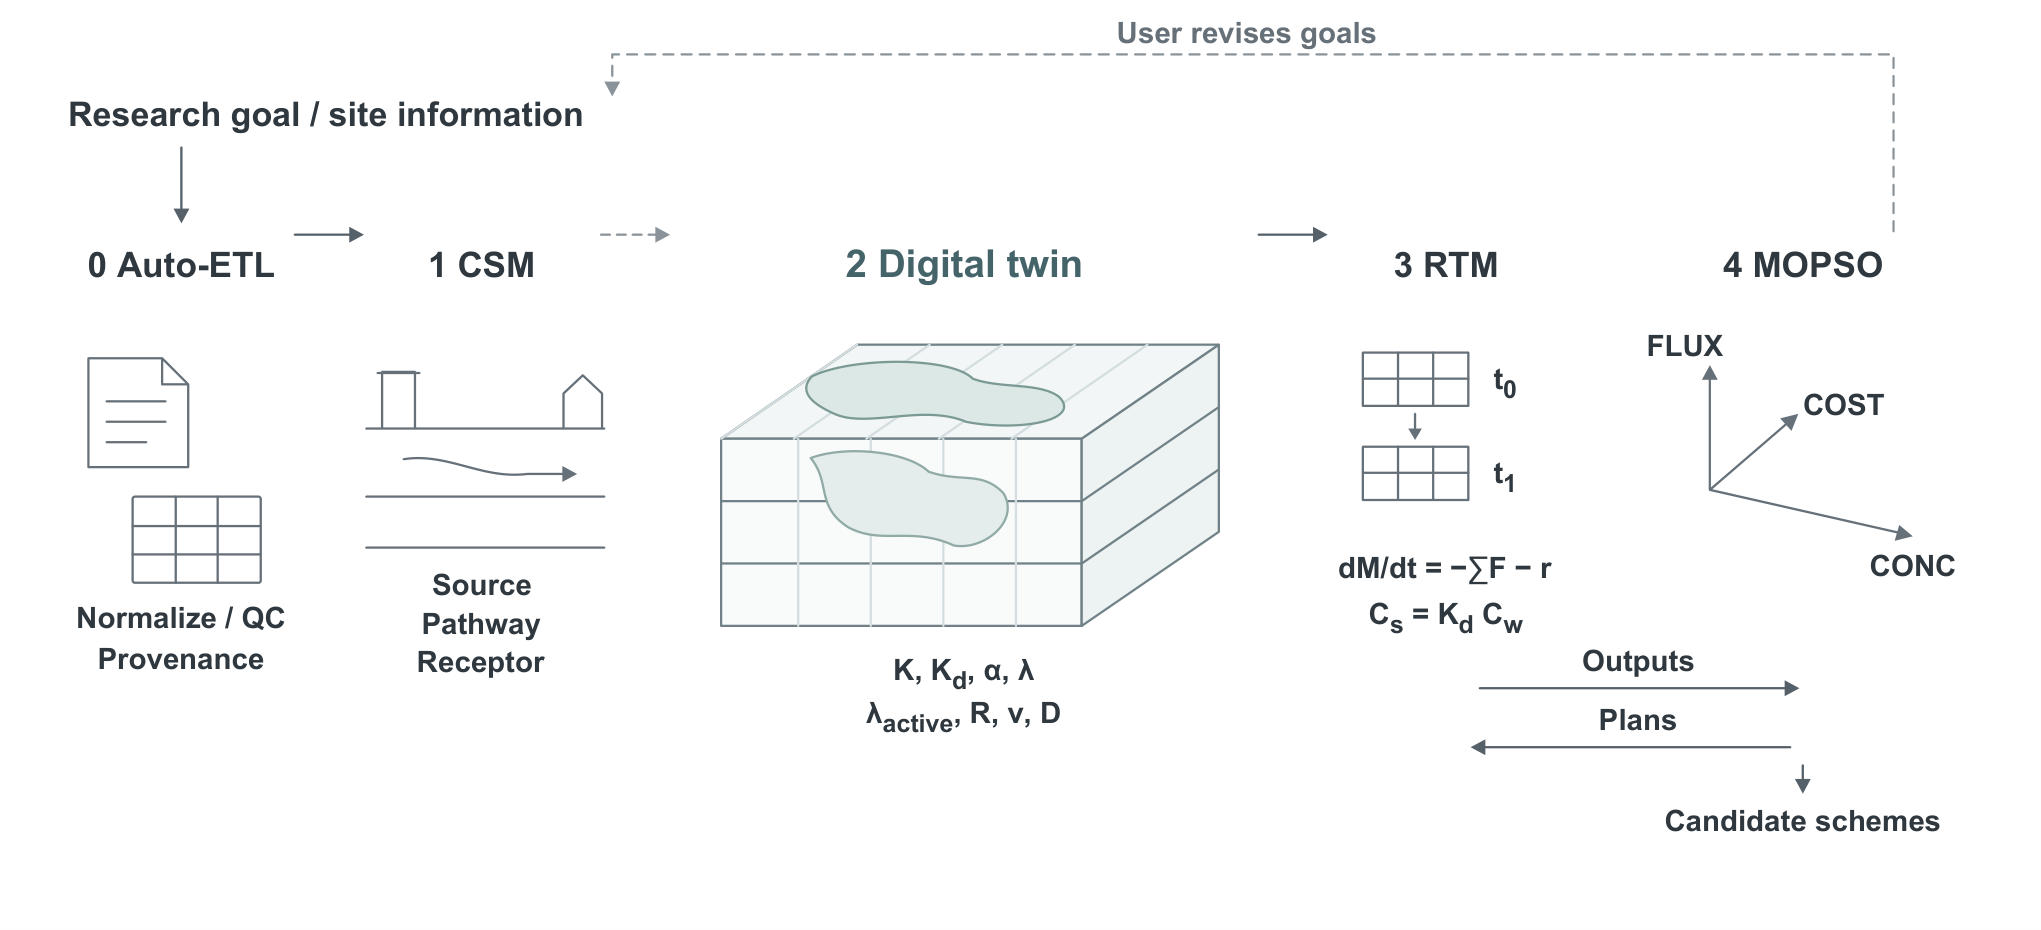
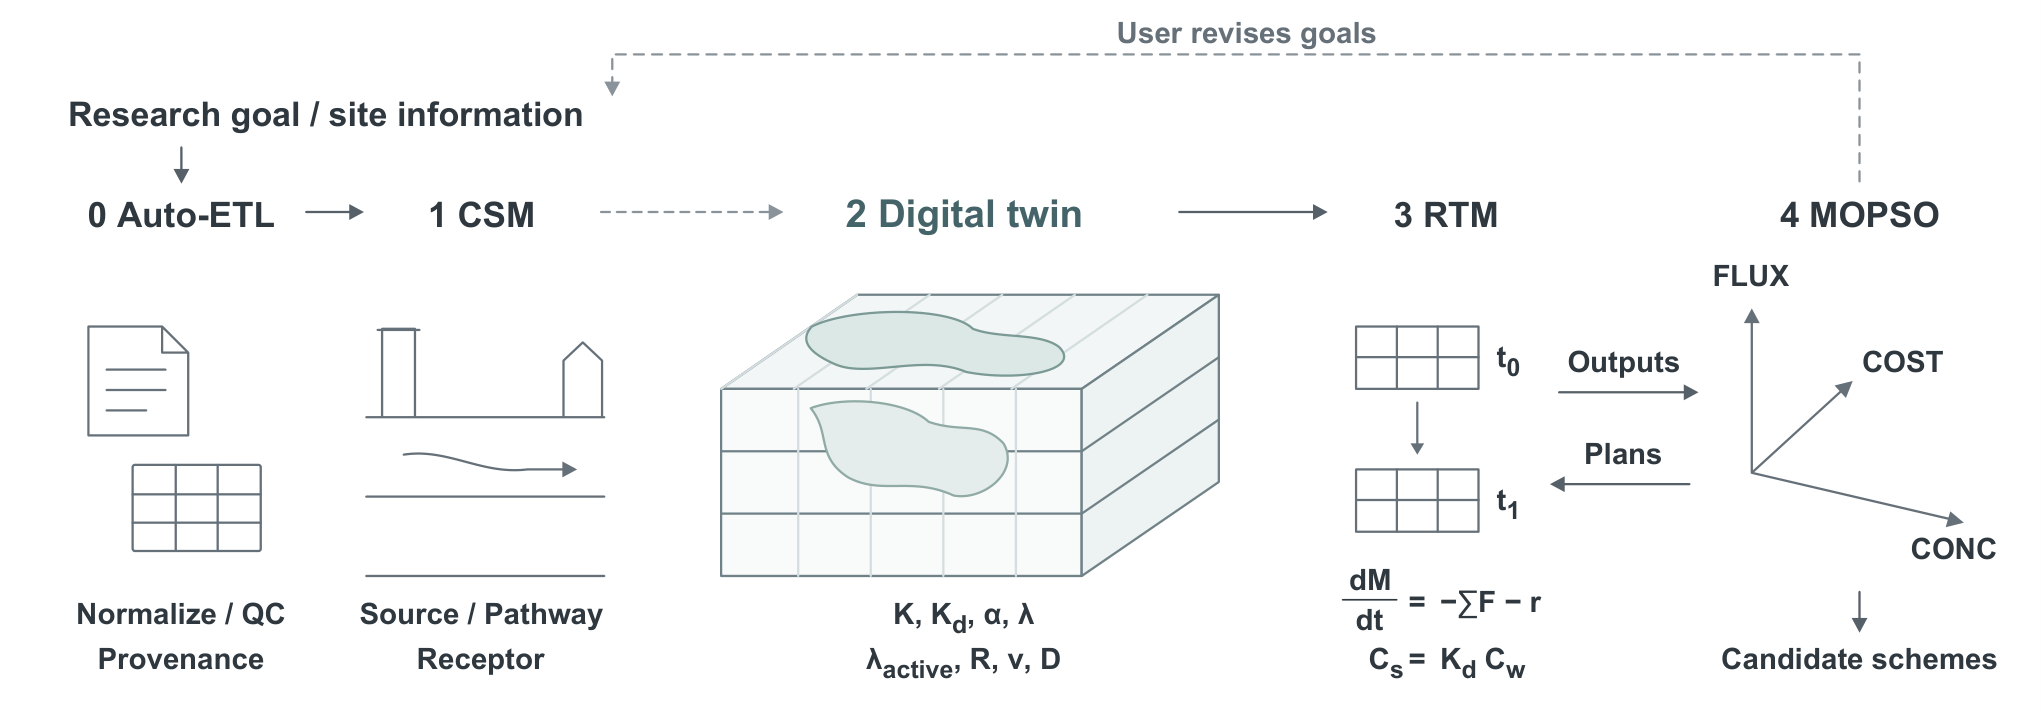
style(figure1): 收紧留白并统一版式与RTM公式对齐

diff --git a/output/脚本/20261009-16-SoilAgent-R-Figure1/20261009-16-导出与QA.py b/output/脚本/20261009-16-SoilAgent-R-Figure1/20261009-16-导出与QA.py
@@ -56,7 +56,9 @@ def export(repo: Path) -> dict:
     assert len(ids) == len(set(ids)), "SVG ID 重复"
     forbidden = {"image", "script", "foreignObject", "filter", "linearGradient", "radialGradient"}
     assert not any(n.tag.removeprefix(NS) in forbidden for n in root.iter()), "SVG含禁用元素"
-    assert root.get("width") == "180mm" and root.get("height") == "82mm"
+    assert root.get("width") == "180mm" and root.get("height") == "63mm"
+    _, _, view_width, view_height = map(float, root.get("viewBox").split())
+    nodes = {node.get("id"): node for node in root.iter() if node.get("id")}
     typography = check_arial(root)
 
     # CairoSVG保留字体和虚线；PyMuPDF的SVG转换会丢失dash，不能用作本图导出器。
@@ -87,8 +89,12 @@ def export(repo: Path) -> dict:
             for second in right_labels[index + 1:]:
                 if any((a & b).get_area() > 0.5 for a in right_rects[first] for b in right_rects[second]):
                     collisions.append([first, second])
-        # 仅在标题带查找，避免将资源条中的RTM/MOPSO当成重复标题。
-        header_clip = pymupdf.Rect(0, rect.height * 200 / 820, rect.width, rect.height * 295 / 820)
+        def svg_band(left, top, right, bottom):
+            return pymupdf.Rect(rect.width * left / view_width, rect.height * top / view_height,
+                                rect.width * right / view_width, rect.height * bottom / view_height)
+
+        # 仅在共同标题带查找；画幅高度不参与字体或坐标的缩放。
+        header_clip = svg_band(0, 160, view_width, 225)
         header_labels = ["0 Auto-ETL", "1 CSM", "2 Digital twin", "3 RTM", "4 MOPSO"]
         header_rects = {label: page.search_for(label, clip=header_clip) for label in header_labels}
         header_unique = all(len(boxes) == 1 for boxes in header_rects.values())
@@ -100,10 +106,10 @@ def export(repo: Path) -> dict:
         visible_text = " ".join(s["text"] for s in spans)
         removed_labels = ["Conceptualization", "Site reconstruction", "Reaction prediction", "Plan optimization", "Color: CONC", "STRUCTURE DRAFT", "Dashed:", "Conceptual illustration / not to scale", "Geometry / initial fields / support", "Time evolution", "Mass checks"]
         allowed_subscripts = sorted(n.text.strip() for n in root.iter(NS + "tspan") if n.get("dy") == "8")
-        formula_bands = {"balance": (480, 529), "partition": (530, 580)}
+        formula_bands = {"balance": (490, 565), "partition": (565, 615)}
         formula_rects = {}
         for name, (top, bottom) in formula_bands.items():
-            band = pymupdf.Rect(rect.width * 1100 / 1800, rect.height * top / 820, rect.width * 1450 / 1800, rect.height * bottom / 820)
+            band = svg_band(1175, top, 1365, bottom)
             members = [s for s in spans if band.contains(pymupdf.Rect(s["bbox"]))]
             if members:
                 box = pymupdf.Rect(members[0]["bbox"])
@@ -111,6 +117,12 @@ def export(repo: Path) -> dict:
                     box |= pymupdf.Rect(member["bbox"])
                 formula_rects[name] = box
         formula_collisions = [[name, label] for name, box in formula_rects.items() for label, boxes in right_rects.items() if any((box & other).get_area() > 0.5 for other in boxes)]
+        equals_rects = page.search_for("=", clip=svg_band(1238, 505, 1265, 615))
+        equals_aligned = len(equals_rects) == 2 and abs(equals_rects[0].x0 - equals_rects[1].x0) < 0.1
+        formula_rows_overlap = len(formula_rects) == 2 and (formula_rects["balance"] & formula_rects["partition"]).get_area() > 0.5
+        annotation_groups = [nodes[name] for name in ["etl-annotations", "csm-annotations", "twin-parameter-fields", "rtm-equations", "decision-output"]]
+        final_baselines = [group.get("data-final-baseline") for group in annotation_groups]
+        header_baselines = [node.get("y") for node in root.iter() if node.get("data-role") == "module-title"]
         checks = {
             "svg_unique_ids": True,
             "svg_no_raster_or_filter": True,
@@ -129,14 +141,19 @@ def export(repo: Path) -> dict:
             "pdf_removed_process_and_figure_notes_absent": all(label not in visible_text for label in removed_labels),
             "svg_shared_footer_and_divider_absent": "shared-resources" not in ids and not any(n.get("d") == "M60 755 L1740 755" for n in root.iter(NS + "path")),
             "pdf_shared_footer_absent": "Shared data / tools" not in visible_text,
-            "pdf_rtm_formulas_present": set(formula_rects) == set(formula_bands) and bool(page.search_for("dM/dt")) and bool(page.search_for("∑F")),
+            "pdf_rtm_formulas_present": set(formula_rects) == set(formula_bands) and bool(page.search_for("dM")) and bool(page.search_for("dt")) and bool(page.search_for("∑F")),
             "pdf_rtm_formulas_no_label_collision": not formula_collisions,
+            "pdf_rtm_equal_signs_aligned": equals_aligned,
+            "pdf_rtm_formula_rows_nonoverlapping": not formula_rows_overlap,
+            "svg_five_title_baselines_aligned": len(header_baselines) == 5 and set(header_baselines) == {"200"},
+            "svg_five_annotation_final_baselines_aligned": final_baselines == ["590"] * 5,
+            "svg_compact_bottom_margin": view_height - float(final_baselines[0]) == 40,
             "pdf_conc_axis_replaces_time": len(right_rects["CONC"]) == 1 and "TIME" not in visible_text,
             "pdf_width_180mm": abs(rect.width * 25.4 / 72 - 180) < 0.01,
-            "pdf_height_82mm": abs(rect.height * 25.4 / 72 - 82) < 0.01,
+            "pdf_height_63mm": abs(rect.height * 25.4 / 72 - 63) < 0.01,
         }
         receipt = {
-            "stage": "structure_draft_eight_fields_and_rtm_equations",
+            "stage": "structure_draft_compact_aligned_layout",
             "source": source.relative_to(repo).as_posix(),
             "source_sha256": hashlib.sha256(source.read_bytes()).hexdigest(),
             "backend": f"CairoSVG {cairosvg.__version__}; PyMuPDF {pymupdf.VersionBind} for PDF QA/render",
@@ -158,6 +175,10 @@ def export(repo: Path) -> dict:
             "model_header_collisions": header_collisions,
             "formula_boxes_pt": {name: list(box) for name, box in formula_rects.items()},
             "formula_label_collisions": formula_collisions,
+            "rtm_equal_sign_boxes_pt": [list(box) for box in equals_rects],
+            "formula_rows_overlap": formula_rows_overlap,
+            "module_title_baselines_svg": header_baselines,
+            "module_annotation_final_baselines_svg": final_baselines,
             "png_size_pixels": [pixmap.width, pixmap.height],
             "not_checked_by_this_script": ["visual_layout", "scientific_acceptance", "drawio_desktop_export", "journal_specific_submission_rules"],
         }

diff --git a/tests/test_soilagent_figure1_wireframe.py b/tests/test_soilagent_figure1_wireframe.py
@@ -25,12 +25,12 @@ class WireframeTests(unittest.TestCase):
             self.assertEqual(self.text.count(label), 1)
 
     def test_model_only_titles(self):
-        for module, label in [("csm", "1 CSM"), ("twin", "2 Digital twin"), ("rtm", "3 RTM"), ("decision", "4 MOPSO")]:
+        for module, label in [("etl", "0 Auto-ETL"), ("csm", "1 CSM"), ("twin", "2 Digital twin"), ("rtm", "3 RTM"), ("decision", "4 MOPSO")]:
             title = self.nodes[f"{module}-method-label"]
             self.assertIn(title, list(self.nodes[module]))
             self.assertEqual(title.get("data-role"), "module-title")
             self.assertEqual(title.text, label)
-            self.assertEqual(title.get("y"), "244")
+            self.assertEqual(title.get("y"), "200")
         self.assertFalse(any(n.get("data-role") in {"process-title", "method-label"} for n in self.root.iter()))
         for old_title in ["Conceptualization", "Site reconstruction", "Reaction prediction", "Plan optimization"]:
             self.assertNotIn(old_title, self.text)
@@ -62,7 +62,7 @@ class WireframeTests(unittest.TestCase):
             self.assertIn(word, axis_text)
         self.assertNotIn("TIME", axis_text)
         conc = self.nodes["decision-axis-conc"]
-        self.assertEqual((conc.get("x"), conc.get("y")), ("1649", "508"))
+        self.assertEqual((conc.get("x"), conc.get("y")), ("1685", "493"))
         self.assertIn("TIME remains a fourth optimization objective", self.root.find(NS + "desc").text)
 
     def test_clean_figure_notes_in_metadata(self):
@@ -117,11 +117,11 @@ class WireframeTests(unittest.TestCase):
         output = self.nodes["model-response-label"]
         request = self.nodes["candidate-request-label"]
         scheme = self.nodes["candidate-schemes-label"]
-        self.assertEqual(balance.get("x"), partition.get("data-center-x"))
-        self.assertLess(float(balance.get("y")), float(partition.get("y")))
-        self.assertLess(float(partition.get("y")), float(output.get("y")))
+        self.assertEqual(balance.get("data-equals-x"), partition.get("data-equals-x"))
+        self.assertLess(float(balance.get("data-baseline")), float(partition.get("data-baseline")))
         self.assertLess(float(output.get("y")), float(request.get("y")))
         self.assertLess(float(request.get("y")), float(scheme.get("y")))
+        self.assertLess(float(request.get("y")), float(balance.get("data-baseline")))
         self.assertEqual(self.nodes["decision-method-label"].get("x"), scheme.get("x"))
         self.assertEqual(output.text, "Outputs")
         self.assertEqual(request.text, "Plans")
@@ -130,10 +130,29 @@ class WireframeTests(unittest.TestCase):
         fields = self.nodes["twin-parameter-fields"].get("data-fields").split(",")
         self.assertEqual(fields, ["K", "Kd", "alpha", "lambda", "lambda_active", "R", "v", "D"])
         self.assertEqual(len(set(fields)), 8)
-        self.assertEqual(self.nodes["rtm-balance-equation"].text, "dM/dt = −∑F − r")
-        self.assertEqual("".join(self.nodes["rtm-partition-equation"].itertext()), "Cs = Kd Cw")
+        self.assertEqual(self.nodes["rtm-balance-equation"].get("data-equation"), "dM/dt = −∑F − r")
+        self.assertEqual(self.nodes["rtm-partition-equation"].get("data-equation"), "Cs = Kd Cw")
+        self.assertEqual(["".join(n.itertext()) for n in self.nodes["rtm-partition-equation"].iter(NS + "text")], ["Cs", "=", "Kd Cw"])
         for removed in ["Geometry / initial fields / support", "Time evolution", "Mass checks"]:
             self.assertNotIn(removed, self.text)
+
+    def test_compact_aligned_annotation_rows(self):
+        self.assertEqual(self.root.get("viewBox"), "0 0 1800 630")
+        self.assertEqual(self.root.get("height"), "63mm")
+        for ident in ["etl-annotations", "csm-annotations", "twin-parameter-fields", "rtm-equations", "decision-output"]:
+            group = self.nodes[ident]
+            self.assertEqual(group.get("data-final-baseline"), "590")
+            self.assertEqual(list(group.iter(NS + "text"))[-1].get("y"), "590")
+        for ident in ["etl-annotations", "csm-annotations", "twin-parameter-fields"]:
+            self.assertEqual([n.get("y") for n in self.nodes[ident].iter(NS + "text")], ["550", "590"])
+
+    def test_rtm_native_fraction_and_aligned_equals(self):
+        self.assertEqual(self.nodes["rtm-balance-numerator"].text, "dM")
+        self.assertEqual(self.nodes["rtm-balance-denominator"].text, "dt")
+        self.assertEqual(self.nodes["rtm-balance-numerator"].get("x"), self.nodes["rtm-balance-denominator"].get("x"))
+        self.assertEqual(self.nodes["rtm-fraction-rule"].tag, NS + "path")
+        self.assertEqual(self.nodes["rtm-balance-equals"].get("x"), self.nodes["rtm-partition-equals"].get("x"))
+        self.assertEqual(self.nodes["rtm-balance-rhs"].get("x"), self.nodes["rtm-partition-rhs"].get("x"))
 
     def test_no_external_refs(self):
         for node in self.root.iter():

diff --git a/output/报告/20261009-16-SoilAgent-R-Figure1/README.md b/output/报告/20261009-16-SoilAgent-R-Figure1/README.md
@@ -1,6 +1,6 @@
 # SoilAgent-R Figure 1：第一阶段结构审阅
 
-任务：[Issue #2](https://github.com/b619-y/drawing-studio-agent/issues/2)。2026-10-09用户认可总体结构，并要求改为yyc字体、安装真正Arial及精简文字。当前按最新要求删除底部资源条，将Twin下方改为8个参数场符号、RTM下方改为守恒与相平衡公式；沿用模型标题与CONC轴。仍为待审结构草图，不是正式投稿图，也不关闭Issue。本轮不自动展开真实数据制图。
+任务：[Issue #2](https://github.com/b619-y/drawing-studio-agent/issues/2)。2026-10-09用户认可总体结构，并要求改为yyc字体、安装真正Arial及精简文字。Twin下方已改为8个参数场符号、RTM下方已改为守恒与相平衡公式；沿用模型标题与CONC轴。最新修订按用户反馈收紧左下留白、统一标题及说明基线，将RTM公式按等号对齐。仍为待审结构草图，不是正式投稿图，也不关闭Issue。本轮不自动展开真实数据制图。
 
 ## 本轮设计
 
@@ -8,7 +8,7 @@
 
 Twin没有真实尺度、井位或浓度色标，概念/非等比例说明移至caption和SVG描述。Decision保留CONC、COST、FLUX空三维坐标，不画随机点、伪造前沿或最优标记；TIME仍是第四优化目标，但不在这份空坐标示意中显示，不新增颜色映射。顶部虚线只表示用户重新设目标；底部资源条及分隔横线按最新用户要求删除，数据底座的实际职责不变。第5层不在图中。删除画面提示不意味着科学状态升级。
 
-草图默认180 mm整宽、82 mm高，主标签至少7 pt；通用两栏整宽草图，不宣称符合某个期刊最新投稿规范。
+草图当前180 mm整宽、63 mm高，主标签至少7 pt；通用两栏整宽草图，不宣称符合某个期刊最新投稿规范。
 
 ## yyc字体修订
 
@@ -23,10 +23,10 @@ Twin没有真实尺度、井位或浓度色标，概念/非等比例说明移至
 
 ## 3、4部分文字整理
 
-按`scansci-svg`局部编辑规范，保护0/1/2、Arial Bold、配色、模型符号和三轴几何，仅调整右侧说明与交互线的布局：
+前轮按`scansci-svg`局部编辑规范整理右侧；最新一轮统一全图版式，仍保留Arial Bold、配色、模型符号、空坐标语义及箭头方向：
 
 - RTM的原`Time evolution`、`Mass checks`按最新要求替换为守恒和相平衡公式；Decision保留空坐标，`Color: CONC`已删除。
-- 两条交互箭头集中在独立下方带：`Outputs`表示RTM模型响应，`Plans`表示MOPSO候选请求，方向不变。
+- 两条交互箭头由下方带移到RTM与MOPSO的栏间空隙：`Outputs`表示RTM模型响应，`Plans`表示MOPSO候选请求，方向不变。
 - `Candidate schemes`归入Decision下方；门控状态说明放在caption/依据表，不挤在图面。
 - 空坐标状态未改变，无候选点声明保留于SVG描述、caption及文档；没有因删减画面文字而增加虚构数据。
 - 最终PDF六个右侧独立标签（含三轴标签）各出现一次；两行公式另作包围盒检查，与标签无碰撞。仍需目视判断箭头、轴及图形间的整体关系。
@@ -39,7 +39,7 @@ Twin没有真实尺度、井位或浓度色标，概念/非等比例说明移至
 
 删除画面上的`STRUCTURE DRAFT`、虚线解释及`Conceptual illustration / not to scale`。概念、非等比例、非实测、无真实候选点、待审状态及虚线含义留在caption/README/SVG描述中；关系XML仍仅记录实施模块关系，不作为新版排版复刻。
 
-随后按用户截图，仅删除`shared-resources`整组（底部`Shared data / tools`文字与分隔横线），其余SVG节点及画幅不变；不删除实际共用数据/工具，也不重算科学结果。
+此前按用户截图删除`shared-resources`整组（底部`Shared data / tools`文字与分隔横线）；最新一轮进一步收紧画幅，不删除实际共用数据/工具，也不重算科学结果。
 
 ## 八参数与RTM公式（本轮）
 
@@ -55,6 +55,14 @@ RTM下方用当前direct RTM的局部守恒与线性相平衡关系：
 
 公式保留原生可编辑文字，参数与相平衡下标采用`tspan`；按真正Arial Bold字宽确定起点，不对每个下标片段单独居中。无科学代码或数据改写。
 
+## 留白、对齐与公式排版（最新修订）
+
+按`scansci-svg`重排同一SVG：画幅由180×82 mm收紧为180×63 mm，字体物理尺寸不缩小。五个模块标题共用`y=200`基线；ETL、CSM与Twin下方说明统一为`y=550/590`两行，RTM第二式及候选输出也共用`y=590`末行基线。CSM仅将Source与Pathway合到一行，三个概念均保留。
+
+RTM导数改为原生文字和分数横线，不栅格化或描成字形轮廓；两式等号统一在`x=1242`，右端统一在`x=1270`。最终PDF检查两行完整文字包围盒不重叠，等号位置一致。Outputs/Plans移至栏间，Candidate schemes直接归在MOPSO下方，避免右侧尾部拉高全图。关联箭头按原来源、目标及方向重接。
+
+仅调整示意对象的尺寸、位置与文字分行；没有新增参数、修改公式含义或改变科学状态。最终PDF重渲染PNG已由绘制者及独立只读审阅者核对，无必须修正的遮挡或对齐问题；未做目标编辑器交互验证。
+
 ## 成果与来源
 
 - [科学依据表](../../表/20261009-16-SoilAgent-R-Figure1/20261009-16-元素与科学依据.md)。
@@ -69,8 +77,8 @@ RTM下方用当前direct RTM的局部守恒与线性相平衡关系：
 
 自动检查包括SVG唯一ID、五模块唯一、禁止位图/随机点/额外Agent、箭头拓扑、原生文字、PDF物理尺寸/无图像对象、字体及虚线保留、重新渲染及源码SHA。实际回执见[QA JSON](20261009-16-结构草图-QA.json)。
 
-- 19项回归测试通过，包含模型标题、画面注记/资源条删除、CONC轴位置、元数据状态保留、八参数与两行公式；scansci结构检查通过。最终PDF五个模型标题及六个右侧标签各出现一次、文字包围盒无碰撞，公式与标签无碰撞，已删文字未残留。关系XML未改，上一轮drawio严格检查0错误、0警告仍适用于原文件，本轮不重复桌面导出。
-- PDF为180×82 mm，原生矢量、无图像对象；仅使用`Arial-BoldMT`。主体文字最小7.37 pt，原生下标6.24 pt；字体子集嵌入，两条虚线确实保留，所有可见字符都有Arial字形。
+- 21项回归测试通过，包含模型标题、画面注记/资源条删除、CONC轴位置、元数据状态保留、八参数、可编辑分数及对齐基线；scansci结构检查通过。最终PDF五个模型标题及六个右侧标签各出现一次、文字包围盒无碰撞，两行公式及其标签无碰撞、等号对齐，已删文字未残留。关系XML未改，上一轮drawio严格检查0错误、0警告仍适用于原文件，本轮不重复桌面导出。
+- PDF为180×63 mm，原生矢量、无图像对象；仅使用`Arial-BoldMT`。主体文字最小7.37 pt，原生下标6.24 pt；字体子集嵌入，两条虚线确实保留，所有可见字符都有Arial字形。
 - 最终PNG由最终PDF重渲染；绘制者已目视核对字体、虚线、箭头、留白及无明显遮挡/裁切。独立只读复核未发现新的实质科学语义问题。
 - 未执行：draw.io桌面导出/交互编辑、特定期刊投稿规格检查、实体打印审阅；正式科学验收仍待进行。自动检查不能代替这些环节。
 

diff --git a/output/表/20261009-16-SoilAgent-R-Figure1/20261009-16-元素与科学依据.md b/output/表/20261009-16-SoilAgent-R-Figure1/20261009-16-元素与科学依据.md
@@ -22,6 +22,7 @@
 | Candidate schemes（门控说明见caption） | `yuxing_direct_rtm_mopso.py:1403,2603`；`MOPSO/EVIDENCE_IMPLEMENTATION_CONTRACT.md`第5节 | 筛选级；正式计算/工程/报批门必须区分，不标工程最优或已达标；为减少画面拥挤，门控状态说明移至caption |
 | User resets goals | Issue #2明确允许人工重新设目标/比较；MOPSO参考目标与后置评价文档 | 示意用户动作；用虚线，不声称实时自主闭环 |
 | Shared data / tools（不再显示） | `AGENTS.md`数据底座；第3层RTM和根MOPSO实现 | 按最新用户截图要求删除底部文字及横线；仅取消展示，不删实际共用数据/工具，不新增Agent |
+| 紧凑对齐版式 | 用户2026-10-09要求减少左下留白、修正对齐及RTM公式散乱 | 180×63 mm；标题与说明统一基线，交互线移到栏间，导数用原生竖分数、两式等号对齐；只改排版，不改公式、参数或模型状态 |
 | 第5层Scale-up | `AGENTS.md`横切职责；Issue #2明确本图不单列 | 不采用，不放入图中；Methods如需另行交代 |
 | 知识图谱、专属井型、精确井位、法规阈值、污染场数值 | 本阶段没有对应已核准绘图输入；CSM代码为结构化模型 | 不采用；不虚构其科学或部署状态 |
 

diff --git a/input/索引.md b/input/索引.md
@@ -10,3 +10,4 @@
 - 公开交付只含概念示意、来源指针、绘图源码与QA。实测几何/井位/浓度和候选档案没有导入或发布。按最新截图要求，底部资源文字及横线已从图面删除，实际数据/工具不变。
 - 同主题成果：`output/图/20261009-16-SoilAgent-R-Figure1/`、`output/脚本/20261009-16-SoilAgent-R-Figure1/`、`output/表/20261009-16-SoilAgent-R-Figure1/`、`output/报告/20261009-16-SoilAgent-R-Figure1/`。
 - 最新下方标注：Twin列K/Kd/α/λ/λ_active/R/v/D八个已登记参数场组（含派生/条件场）；RTM用控制体库存守恒和Cs=Kd Cw相平衡公式，来源为实际direct RTM实现，不写持续恒定工程速率、不改科学数据。
+- 最新版式：画幅180×63 mm，五个标题共用基线、五栏说明末行对齐；Outputs/Plans移到栏间，RTM用原生竖分数及等号对齐的两行公式。仅重排可编辑概念图，不重算研究结果。
